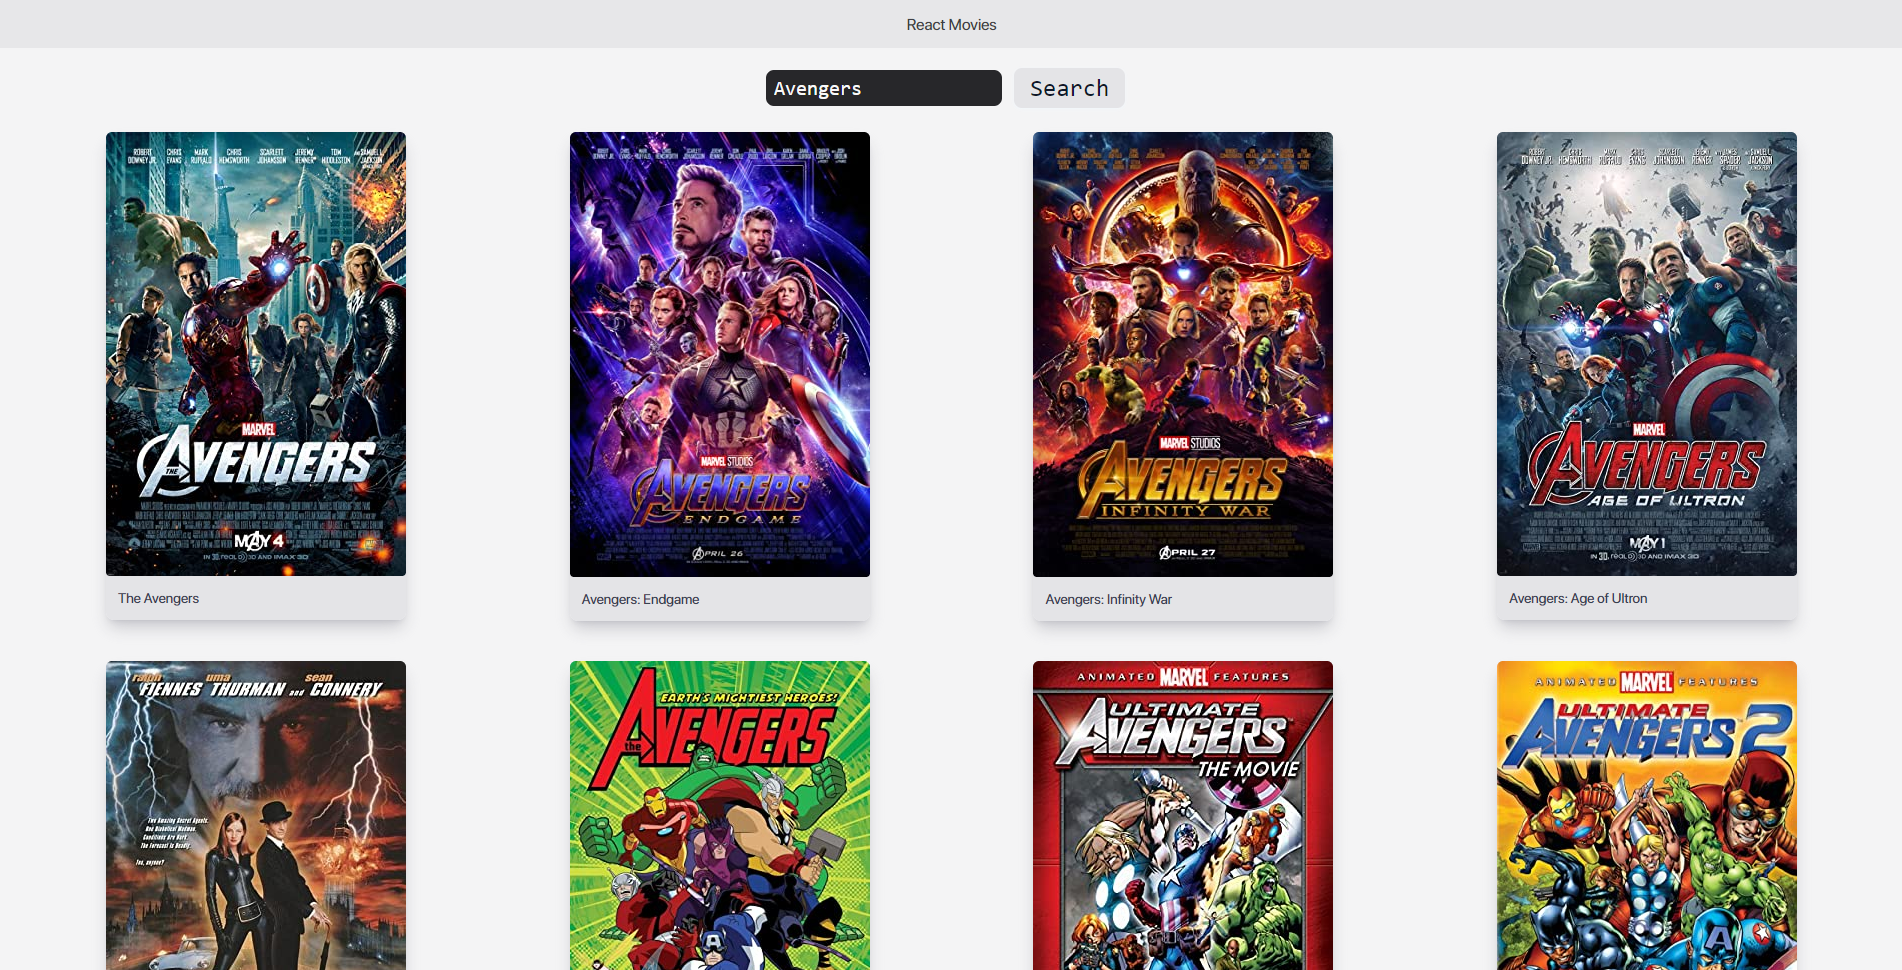
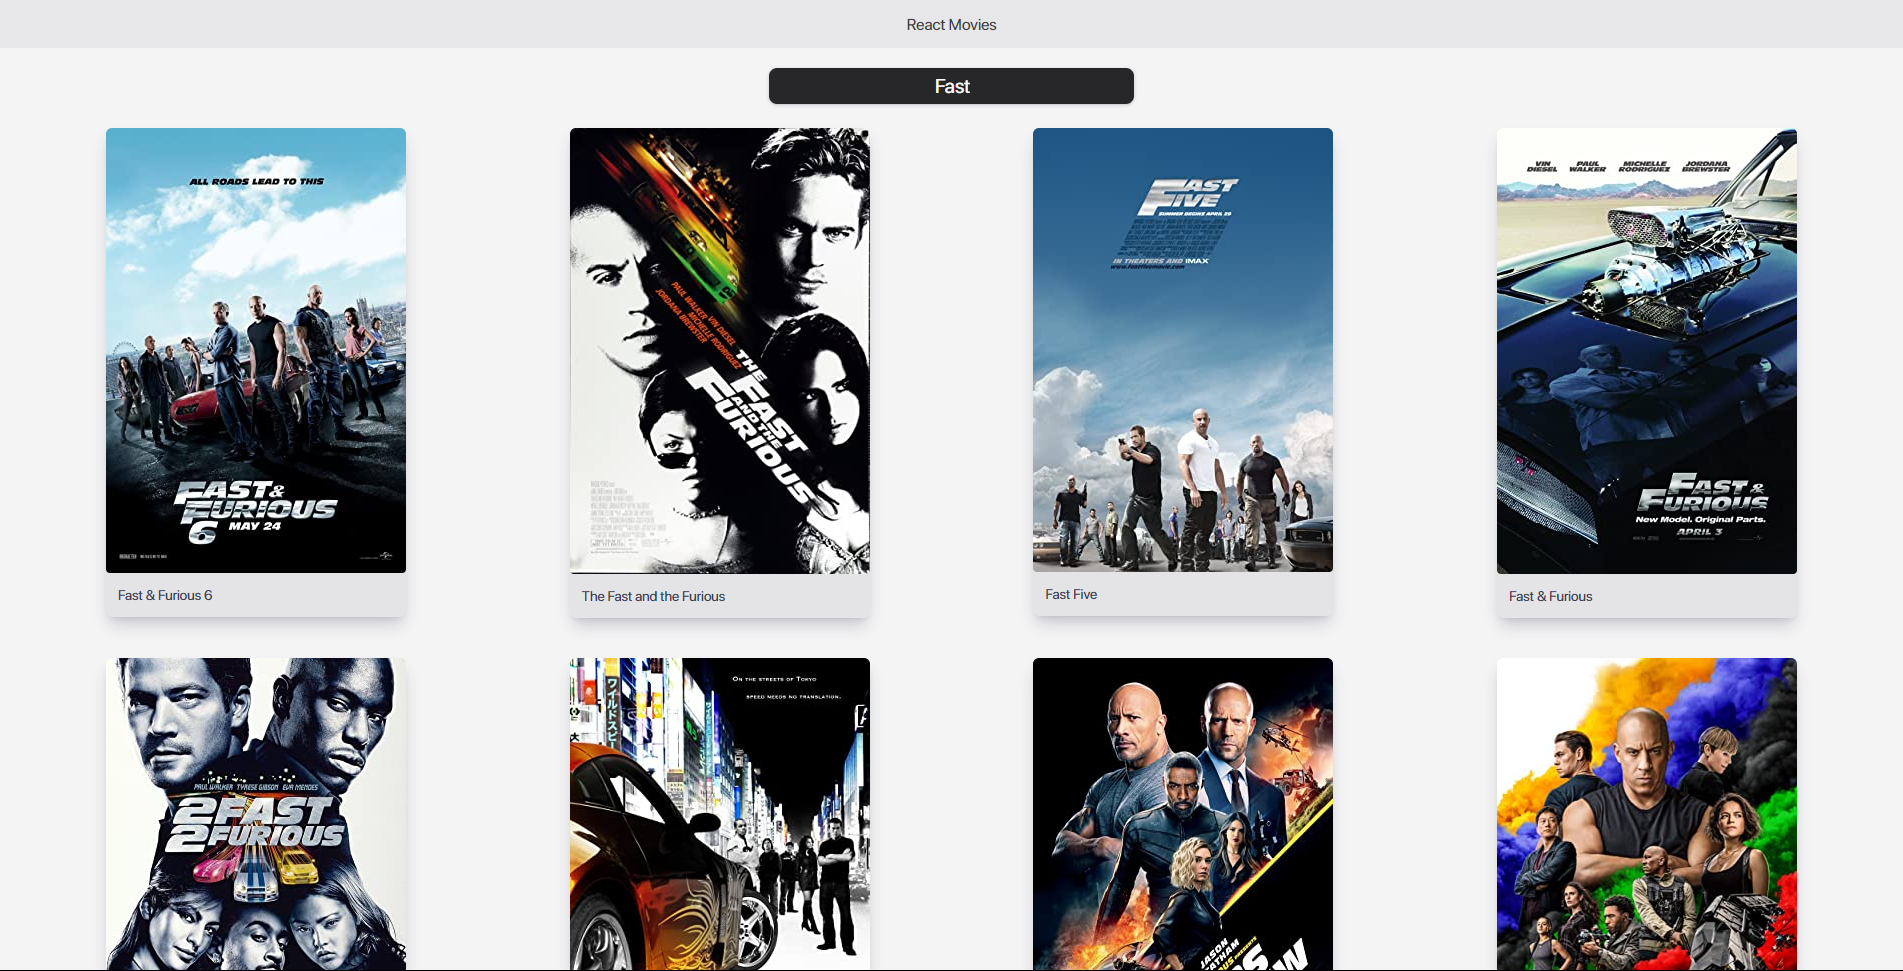
Made search more pretty and comfortable
Change styles and jsx for search. Added search by pressing Enter. If nothing found will show notification

diff --git a/react-movie/src/App.jsx b/react-movie/src/App.jsx
@@ -7,6 +7,7 @@ class App extends React.Component {
         this.state = {
             movieList: [],
             movieName: '',
+            isMovieFound: true,
         }
     }
 
@@ -14,38 +15,61 @@ class App extends React.Component {
         let apiKey = '328a7cff'
         let url = `http://www.omdbapi.com/?apikey=${apiKey}&s=${this.state.movieName}`
 
-        fetch(url)
-            .then((response) => {
-                return response.json()
-            })
-            .then((data) => {
-                this.setState({movieList: data.Search})
-            })
+        if (this.state.movieName !== '') {
+            fetch(url)
+                .then((response) => {
+                    return response.json()
+                })
+                .then((data) => {
+                    if (data.Search !== undefined) {
+                        this.setState({movieList: data.Search})
+                        this.setState({isMovieFound: true})
+                    } else {
+                        this.setState({movieList: []})
+                        this.setState({isMovieFound: false})
+                    }
+                })
+        }
     }
 
     handleChange = (e) => {
-        this.setState({[e.target.name]: e.target.value}) // використовуємо [e.target.name], щоб динамічно пов'язувати input з state, та не писати для кожного input свою функцію
+        this.setState({[e.target.name]: e.target.value})
     }
+
+    keyPress = (e) => {
+        if (e.code === 'Enter') {
+            this.fetchMovies()
+        }
+    }
+
 
     render() {
         return (
             <section className='movie-app bg-zinc-100 py-5 px-10'>
                 <div className='flex items-center justify-center'>
-                    <input
-                        className='font-mono text-xl text-zinc-50 bg-zinc-800 rounded-lg border-none py-1 px-2 focus-visible:outline focus-visible:outline-sky-500 focus:outline-4 focus:border-none focus:shadow-none focus:ring-0 focus:outline-offset-0'
-                        onChange={e => this.handleChange(e)}
-                        type='text'
-                        name='movieName'
-                        placeholder='Task text'
-                        value={this.movieName}
-                    />
-                    <button
-                        onClick={this.fetchMovies}
-                        className="font-mono text-2xl bg-zinc-200 text-slate-900 mx-3 py-1 px-4 rounded-lg hover:rounded-xl shadow shadow-sky-50/50 transition-all duration-150 ease-in hover:shadow-sky-50/80 hover:bg-sky-200 active:shadow-none focus-visible:outline focus-visible:outline-sky-500 outline-4 outline-offset-0"
-                    >
-                        Search
-                    </button>
+                    <label className='relative w-4/5 lg:w-1/5 h-[36px] flex items-center justify-center divide-x divide-zinc-600 bg-zinc-800 rounded-lg shadow shadow-zinc-400/50 transition-all duration-200 ease-in focus-within:w-full lg:focus-within:w-3/5'>
+                        <input
+                            className='peer absolute left-1/2 w-full lg:w-3/5 translate-x-[-50%] text-center text-xl text-zinc-50 bg-zinc-800 rounded-lg border-none py-1 px-2 focus:border-none focus:shadow-none focus:ring-0'
+                            onChange={e => this.handleChange(e)}
+                            onKeyDown={e => this.keyPress(e)}
+                            type='text'
+                            name='movieName'
+                            placeholder='Search'
+                            value={this.movieName}
+                        />
+                        <button
+                            onClick={this.fetchMovies}
+                            className="absolute right-0 invisible peer-focus-visible:visible text-slate-200 py-1 px-3"
+                        >
+                            <svg xmlns="http://www.w3.org/2000/svg" fill="none" viewBox="0 0 24 24" strokeWidth={1.5} stroke="currentColor" className="w-6 h-6">
+                                <path strokeLinecap="round" strokeLinejoin="round" d="M21 21l-5.197-5.197m0 0A7.5 7.5 0 105.196 5.196a7.5 7.5 0 0010.607 10.607z" />
+                            </svg>
+                        </button>
+                    </label>
                 </div>
+                { !this.state.isMovieFound &&
+                 <div className='text-2xl text-zinc-600 text-center mt-10'>No movies for your request 😒</div>
+                }
                 <List cards={this.state.movieList}></List>
             </section>
         )
